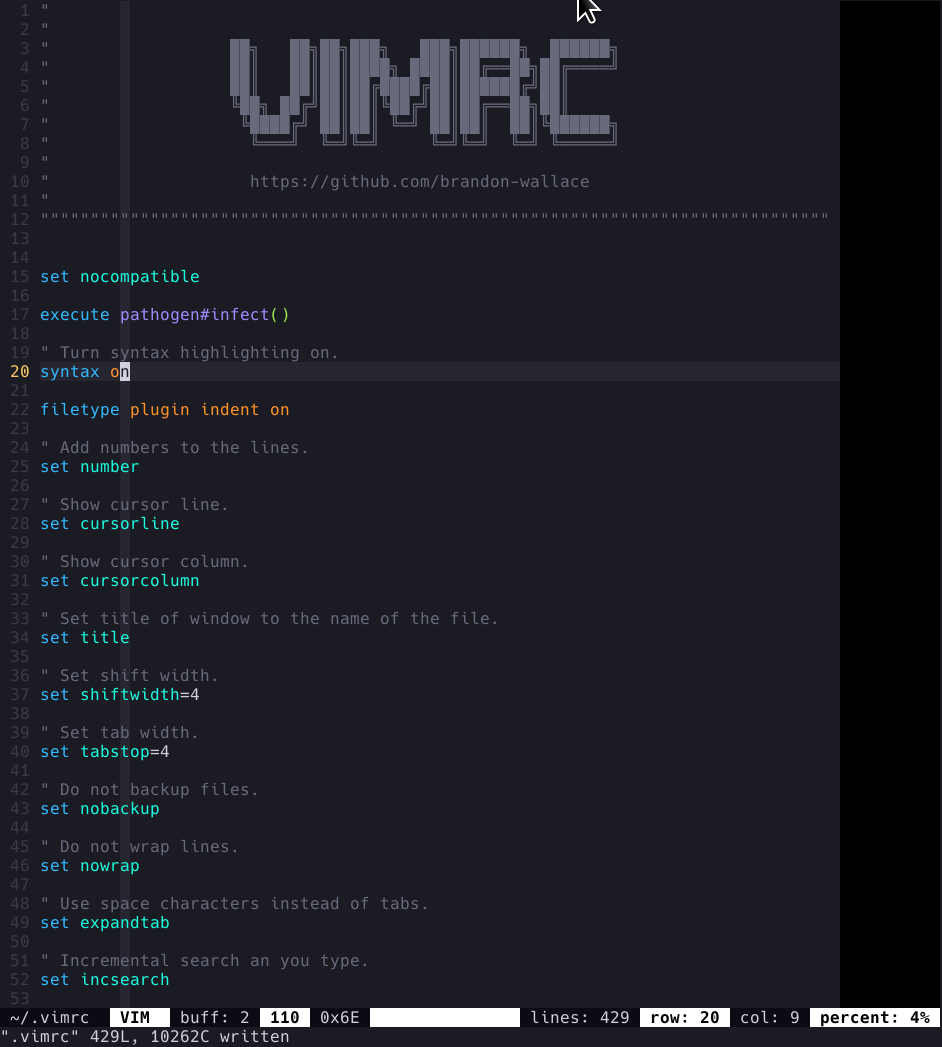
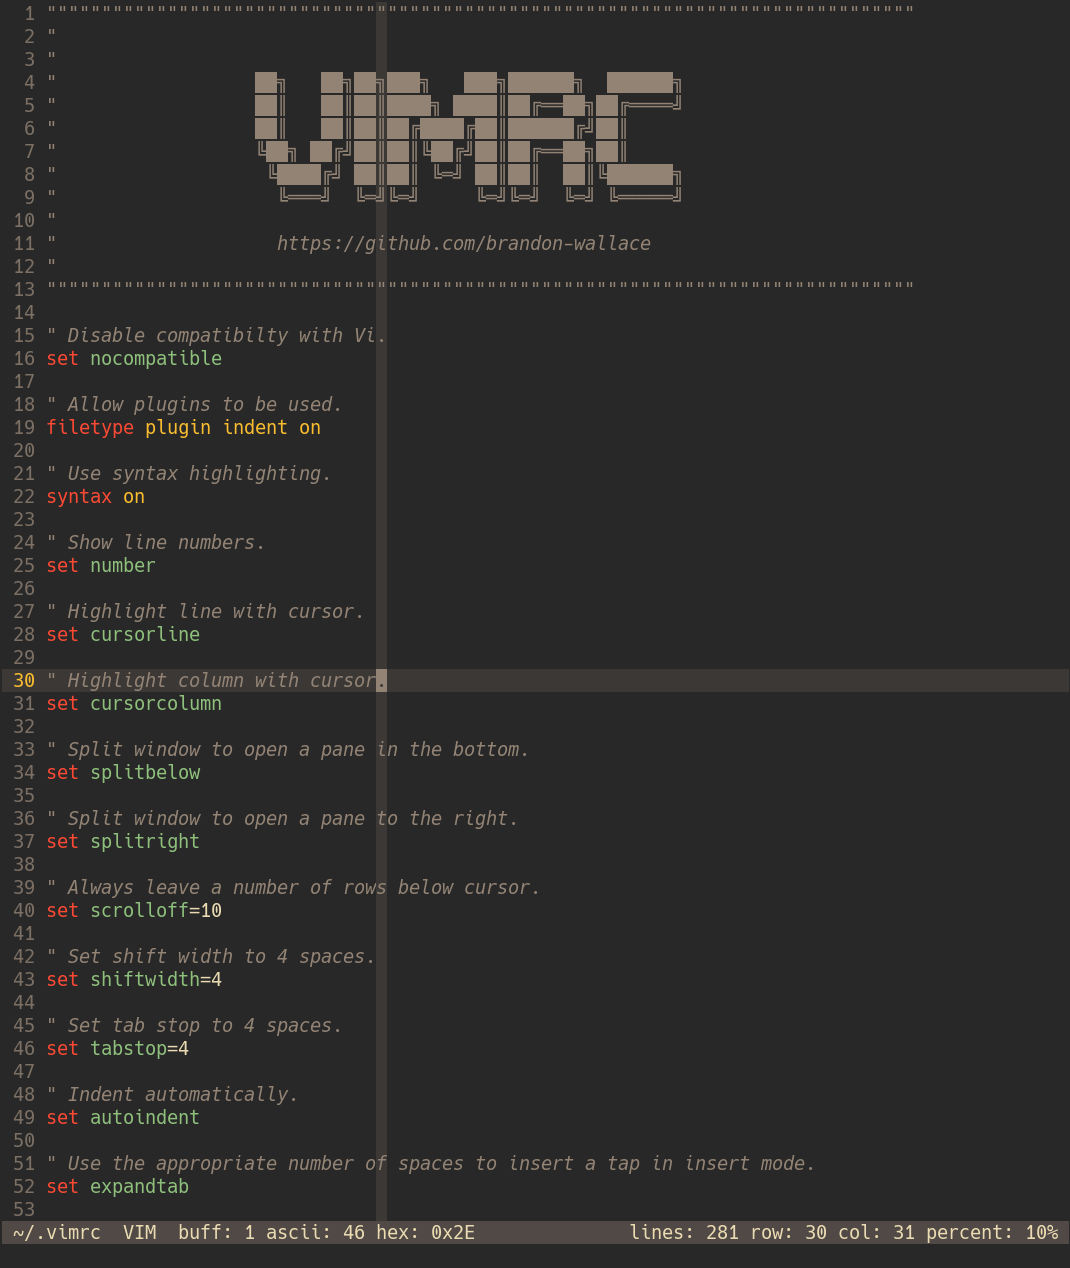
Updated readme / New screenshots

Changed region(s): [[0.0, 0.0, 1.0, 1.0], [0.4618, 0.6724, 0.4926, 0.703], [0.4002, 0.8558, 0.431, 0.8863]]

diff --git a/readme.md b/readme.md
@@ -1,17 +1,23 @@
-# My .vimrc and _vimrc.
+# My .vimrc 
 
 
-![vimrc_screenshot](/screenshot1.png)
+![vimrc_screenshot1](/screenshot1.png)
 
-suggested packages/plugins
+## GVim 
+## Theme: Gruvbox
+## Font: FiraCode Nerd
 
-    - exuberant-ctags
-    - syntastic
-    - NERDTree
-    - jedi-vim
-    - pyflakes8
-    - pep8
-    - flake8
-    - isort
-    - yapf
-    - ack-grep
+```
+.vim/
+├── autoload/
+├── backup/
+├── colors/
+├── spell/
+└── templates/
+```
+
+![vimrc_screenshot2](/screenshot2.png)
+
+## Vim 
+## Theme: Molokai
+## Font: FiraCode Nerd
